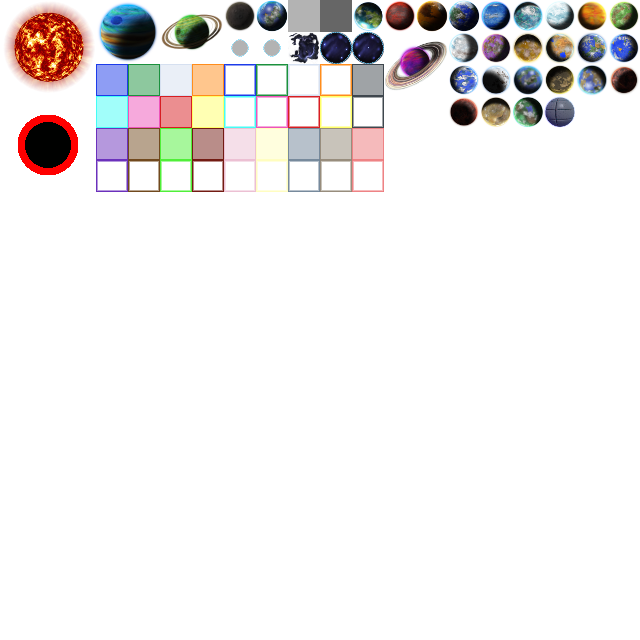
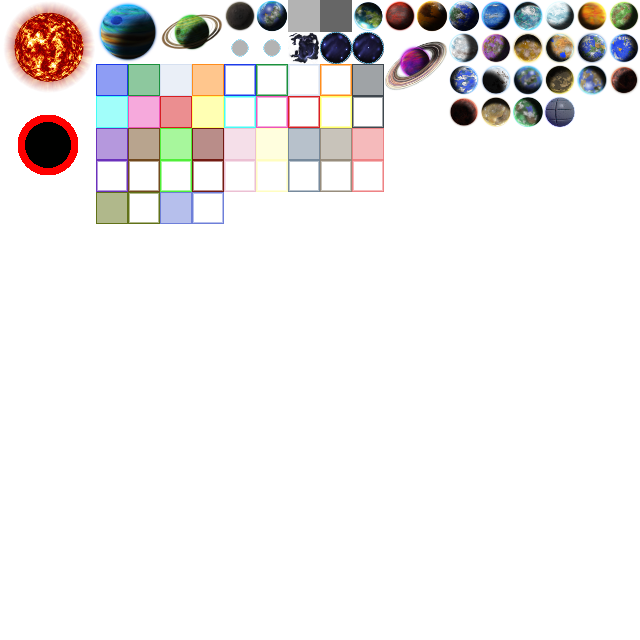
#489 Adds maximum of 16 realms in single game.
Above 12 realms require at least Large galaxy.
Adds two new colors olive and sky.

Changed region(s): [[0.125, 0.2812, 0.3125, 0.375]]

diff --git a/src/main/java/org/openRealmOfStars/player/PlayerColor.java b/src/main/java/org/openRealmOfStars/player/PlayerColor.java
@@ -8,7 +8,7 @@ import org.openRealmOfStars.mapTiles.TileNames;
 /**
 *
 * Open Realm of Stars game project
-* Copyright (C) 2021 Tuomo Untinen
+* Copyright (C) 2021,2022 Tuomo Untinen
 *
 * This program is free software; you can redistribute it and/or
 * modify it under the terms of the GNU General Public License
@@ -100,7 +100,15 @@ public enum PlayerColor {
   /**
    * Coral
    */
-  CORAL(17, "Coral");
+  CORAL(17, "Coral"),
+  /**
+   * Olive
+   */
+  OLIVE(18, "Olive"),
+  /**
+   * Sky
+   */
+  SKY(19, "Sky");
   /**
    * Player Color constructor
    * @param index Color index
@@ -148,6 +156,8 @@ public enum PlayerColor {
     case GRAY: return TileNames.PLAYER_GRAY;
     case TAN: return TileNames.PLAYER_TAN;
     case CORAL: return TileNames.PLAYER_CORAL;
+    case OLIVE: return TileNames.PLAYER_OLIVE;
+    case SKY: return TileNames.PLAYER_SKY;
    }
   }
   /**
@@ -175,6 +185,8 @@ public enum PlayerColor {
     case GRAY: return TileNames.PLAYER_SHIP_GRAY;
     case TAN: return TileNames.PLAYER_SHIP_TAN;
     case CORAL: return TileNames.PLAYER_SHIP_CORAL;
+    case OLIVE: return TileNames.PLAYER_SHIP_OLIVE;
+    case SKY: return TileNames.PLAYER_SHIP_SKY;
    }
   }
   /**
@@ -202,6 +214,8 @@ public enum PlayerColor {
     case GRAY: return GuiStatics.PLAYER_GRAY;
     case TAN: return GuiStatics.PLAYER_TAN;
     case CORAL: return GuiStatics.PLAYER_CORAL;
+    case OLIVE: return GuiStatics.PLAYER_OLIVE;
+    case SKY: return GuiStatics.PLAYER_SKY;
    }
   }
   /**

diff --git a/src/main/java/org/openRealmOfStars/game/States/GalaxyCreationView.java b/src/main/java/org/openRealmOfStars/game/States/GalaxyCreationView.java
@@ -495,7 +495,7 @@ public class GalaxyCreationView extends BlackPanel {
     label.setAlignmentX(CENTER_ALIGNMENT);
     info.add(label);
     info.add(Box.createRigidArea(new Dimension(5, 5)));
-    String[] players = new String[11];
+    String[] players = new String[15];
     players[0] = "Two realms";
     players[1] = "Three realms";
     players[2] = "Four realms";
@@ -507,6 +507,10 @@ public class GalaxyCreationView extends BlackPanel {
     players[8] = "Ten realms";
     players[9] = "Eleven realms";
     players[10] = "Twelve realms";
+    players[11] = "13 realms";
+    players[12] = "14 realms";
+    players[13] = "15 realms";
+    players[14] = "16 realms";
     comboPlayers = new SpaceCombo<>(players);
     comboPlayers.setSelectedIndex(this.config.getMaxPlayers() - 2);
     comboPlayers.setActionCommand(GameCommands.COMMAND_GALAXY_SETUP);
@@ -845,6 +849,11 @@ public class GalaxyCreationView extends BlackPanel {
       if (config.getMaxPlayers() > 8 && config.getGalaxySizeIndex() < 2) {
         config.setSize(GALAXY_SIZE_MEDIUM, 2);
         comboGalaxySize.setSelectedIndex(2);
+        this.repaint();
+      }
+      if (config.getMaxPlayers() > 12 && config.getGalaxySizeIndex() < 3) {
+        config.setSize(GALAXY_SIZE_MEDIUM, 3);
+        comboGalaxySize.setSelectedIndex(3);
         this.repaint();
       }
       switch (comboSunDensity.getSelectedIndex()) {

diff --git a/src/main/java/org/openRealmOfStars/player/SpaceRace/SpaceRace.java b/src/main/java/org/openRealmOfStars/player/SpaceRace/SpaceRace.java
@@ -722,7 +722,7 @@ public enum SpaceRace {
     case LITHORIANS:
       return PlayerColor.YELLOW;
     case ALTEIRIANS:
-      return PlayerColor.BLUE;
+      return PlayerColor.SKY;
     case SMAUGIRIANS:
       return PlayerColor.TAN;
     default:
@@ -747,11 +747,11 @@ public enum SpaceRace {
     case SPORKS:
       return PlayerColor.GREEN;
     case GREYANS:
-      return PlayerColor.CYAN;
+      return PlayerColor.SKY;
     case CENTAURS:
       return PlayerColor.PINK;
     case MOTHOIDS:
-      return PlayerColor.PINK;
+      return PlayerColor.OLIVE;
     case TEUTHIDAES:
       return PlayerColor.BLACK;
     case SCAURIANS:
@@ -765,9 +765,9 @@ public enum SpaceRace {
     case LITHORIANS:
       return PlayerColor.BANANA;
     case ALTEIRIANS:
-      return PlayerColor.CYAN;
+      return PlayerColor.BLUE;
     case SMAUGIRIANS:
-      return PlayerColor.GREEN;
+      return PlayerColor.OLIVE;
     default:
       return PlayerColor.CORAL;
     }

diff --git a/src/main/java/org/openRealmOfStars/mapTiles/TileNames.java b/src/main/java/org/openRealmOfStars/mapTiles/TileNames.java
@@ -331,6 +331,14 @@ public final class TileNames {
    * Culture tile for player CORAL (Overlay)
    */
   public static final String PLAYER_CORAL = "Player_CORAL";
+  /**
+   * Culture tile for player OLIVE (Overlay)
+   */
+  public static final String PLAYER_OLIVE = "Player_OLIVE";
+  /**
+   * Culture tile for player SKY (Overlay)
+   */
+  public static final String PLAYER_SKY = "Player_SKY";
 
   /**
    * Ship color tile for player BLUE (Overlay)
@@ -404,6 +412,14 @@ public final class TileNames {
    * Ship color tile for player CORAL(Overlay)
    */
   public static final String PLAYER_SHIP_CORAL = "Player_Ship_CORAL";
+  /**
+   * Ship color tile for player OLIVE(Overlay)
+   */
+  public static final String PLAYER_SHIP_OLIVE = "Player_Ship_OLIVE";
+  /**
+   * Ship color tile for player SKY(Overlay)
+   */
+  public static final String PLAYER_SHIP_SKY = "Player_Ship_SKY";
   /**
    * Space anomaly tile: Credits
    */

diff --git a/src/test/java/org/openRealmOfStars/starMap/history/event/CultureEventTest.java b/src/test/java/org/openRealmOfStars/starMap/history/event/CultureEventTest.java
@@ -8,6 +8,7 @@ import org.junit.Test;
 import org.junit.experimental.categories.Category;
 import org.mockito.Mockito;
 import org.openRealmOfStars.starMap.Coordinate;
+import org.openRealmOfStars.starMap.StarMap;
 
 /**
 *
@@ -41,10 +42,10 @@ public class CultureEventTest {
     assertEquals(EventType.CULTURE_CHANGE, event.getType());
     assertEquals(coord, event.getCoordinate());
     assertEquals(0, event.getPlayerIndex());
-    event = new CultureEvent(coord, 13);
+    event = new CultureEvent(coord, StarMap.MAX_PLAYERS + 1);
     assertEquals(EventType.CULTURE_CHANGE, event.getType());
     assertEquals(coord, event.getCoordinate());
-    assertEquals(11, event.getPlayerIndex());
+    assertEquals(StarMap.MAX_PLAYERS - 1, event.getPlayerIndex());
     event = new CultureEvent(coord, -2);
     assertEquals(EventType.CULTURE_CHANGE, event.getType());
     assertEquals(coord, event.getCoordinate());

diff --git a/src/main/java/org/openRealmOfStars/mapTiles/Tiles.java b/src/main/java/org/openRealmOfStars/mapTiles/Tiles.java
@@ -9,7 +9,7 @@ import org.openRealmOfStars.utilities.IOUtilities;
 /**
  *
  * Open Realm of Stars game project
- * Copyright (C) 2016-2021  Tuomo Untinen
+ * Copyright (C) 2016-2022  Tuomo Untinen
  *
  * This program is free software; you can redistribute it and/or
  * modify it under the terms of the GNU General Public License
@@ -421,6 +421,14 @@ public final class Tiles {
     tile = new Tile(tilesImage, 11, 4, TileNames.PLAYER_CORAL);
     addTile(tile);
     tile = new Tile(tilesImage, 11, 5, TileNames.PLAYER_SHIP_CORAL);
+    addTile(tile);
+    tile = new Tile(tilesImage, 3, 6, TileNames.PLAYER_OLIVE);
+    addTile(tile);
+    tile = new Tile(tilesImage, 4, 6, TileNames.PLAYER_SHIP_OLIVE);
+    addTile(tile);
+    tile = new Tile(tilesImage, 5, 6, TileNames.PLAYER_SKY);
+    addTile(tile);
+    tile = new Tile(tilesImage, 6, 6, TileNames.PLAYER_SHIP_SKY);
     addTile(tile);
   }
 

diff --git a/src/test/java/org/openRealmOfStars/starMap/GalaxyConfigTest.java b/src/test/java/org/openRealmOfStars/starMap/GalaxyConfigTest.java
@@ -9,7 +9,7 @@ import org.openRealmOfStars.player.SpaceRace.SpaceRace;
 /**
  *
  * Open Realm of Stars game project
- * Copyright (C) 2016,2018,2019 Tuomo Untinen
+ * Copyright (C) 2016,2018-2022 Tuomo Untinen
  *
  * This program is free software; you can redistribute it and/or
  * modify it under the terms of the GNU General Public License
@@ -61,7 +61,7 @@ public class GalaxyConfigTest {
     config.setPlayerName(0, "Test of Human");
     assertEquals("Test of Human",config.getPlayerName(0));
     assertEquals(false,config.isUniqueName("Test of Human"));
-    assertEquals(null,config.getPlayerName(13));
+    assertEquals(null,config.getPlayerName(StarMap.MAX_PLAYERS + 1));
     config.setMaxPlayers(3);
     assertEquals(3, config.getMaxPlayers());
     config.setSolarSystemDistance(13, 0);

diff --git a/src/main/java/org/openRealmOfStars/game/States/EspionageView.java b/src/main/java/org/openRealmOfStars/game/States/EspionageView.java
@@ -32,7 +32,7 @@ import org.openRealmOfStars.starMap.newsCorp.NewsCorpData;
 /**
 *
 * Open Realm of Stars game project
-* Copyright (C) 2018  Tuomo Untinen
+* Copyright (C) 2018,2021,2022  Tuomo Untinen
 *
 * This program is free software; you can redistribute it and/or
 * modify it under the terms of the GNU General Public License
@@ -115,7 +115,7 @@ public class EspionageView extends BlackPanel {
 
     InfoPanel centerPanel = new InfoPanel();
     centerPanel.setTitle("Espionage");
-    centerPanel.setLayout(new GridLayout(3, 4));
+    centerPanel.setLayout(new GridLayout(4, 4));
     int maxPlayer = playerList.getCurrentMaxRealms();
     for (int i = 0; i < maxPlayer; i++) {
       PlayerInfo realmInfo = playerList.getPlayerInfoByIndex(i);

diff --git a/src/main/java/org/openRealmOfStars/game/States/PlayerSetupView.java b/src/main/java/org/openRealmOfStars/game/States/PlayerSetupView.java
@@ -45,7 +45,7 @@ import org.openRealmOfStars.utilities.DiceGenerator;
 /**
  *
  * Open Realm of Stars game project
- * Copyright (C) 2016-2021 Tuomo Untinen
+ * Copyright (C) 2016-2022 Tuomo Untinen
  *
  * This program is free software; you can redistribute it and/or
  * modify it under the terms of the GNU General Public License
@@ -162,7 +162,7 @@ public class PlayerSetupView extends BlackPanel {
     comboRealmColor = new SpaceComboBox[StarMap.MAX_PLAYERS];
 
     SpaceGreyPanel xgrey = new SpaceGreyPanel();
-    xgrey.setLayout(new GridLayout(3, 4));
+    xgrey.setLayout(new GridLayout(4, 4));
     for (int i = 0; i < StarMap.MAX_PLAYERS; i++) {
       xgrey.add(createPlayerRaceSelection(xgrey, i, listener));
     }

diff --git a/src/main/java/org/openRealmOfStars/starMap/StarMap.java b/src/main/java/org/openRealmOfStars/starMap/StarMap.java
@@ -71,7 +71,7 @@ import org.openRealmOfStars.utilities.repository.SunRepository;
 /**
  *
  * Open Realm of Stars game project
- * Copyright (C) 2016-2021 Tuomo Untinen
+ * Copyright (C) 2016-2022 Tuomo Untinen
  *
  * This program is free software; you can redistribute it and/or
  * modify it under the terms of the GNU General Public License
@@ -95,7 +95,7 @@ public class StarMap {
   /**
    * Maximum number of player
    */
-  public static final int MAX_PLAYERS = 12;
+  public static final int MAX_PLAYERS = 16;
 
   /**
    * Maximum map size x

diff --git a/src/main/java/org/openRealmOfStars/gui/utilies/GuiStatics.java b/src/main/java/org/openRealmOfStars/gui/utilies/GuiStatics.java
@@ -710,6 +710,15 @@ public final class GuiStatics {
    */
   public static final Color PLAYER_CORAL = new Color(236, 117, 120);
 
+  /**
+   * Player color olive.
+   */
+  public static final Color PLAYER_OLIVE = new Color(97, 114, 24);
+
+  /**
+   * Player color sky.
+   */
+  public static final Color PLAYER_SKY = new Color(110, 127, 217);
 
   /**
    * Relation unknown icon
